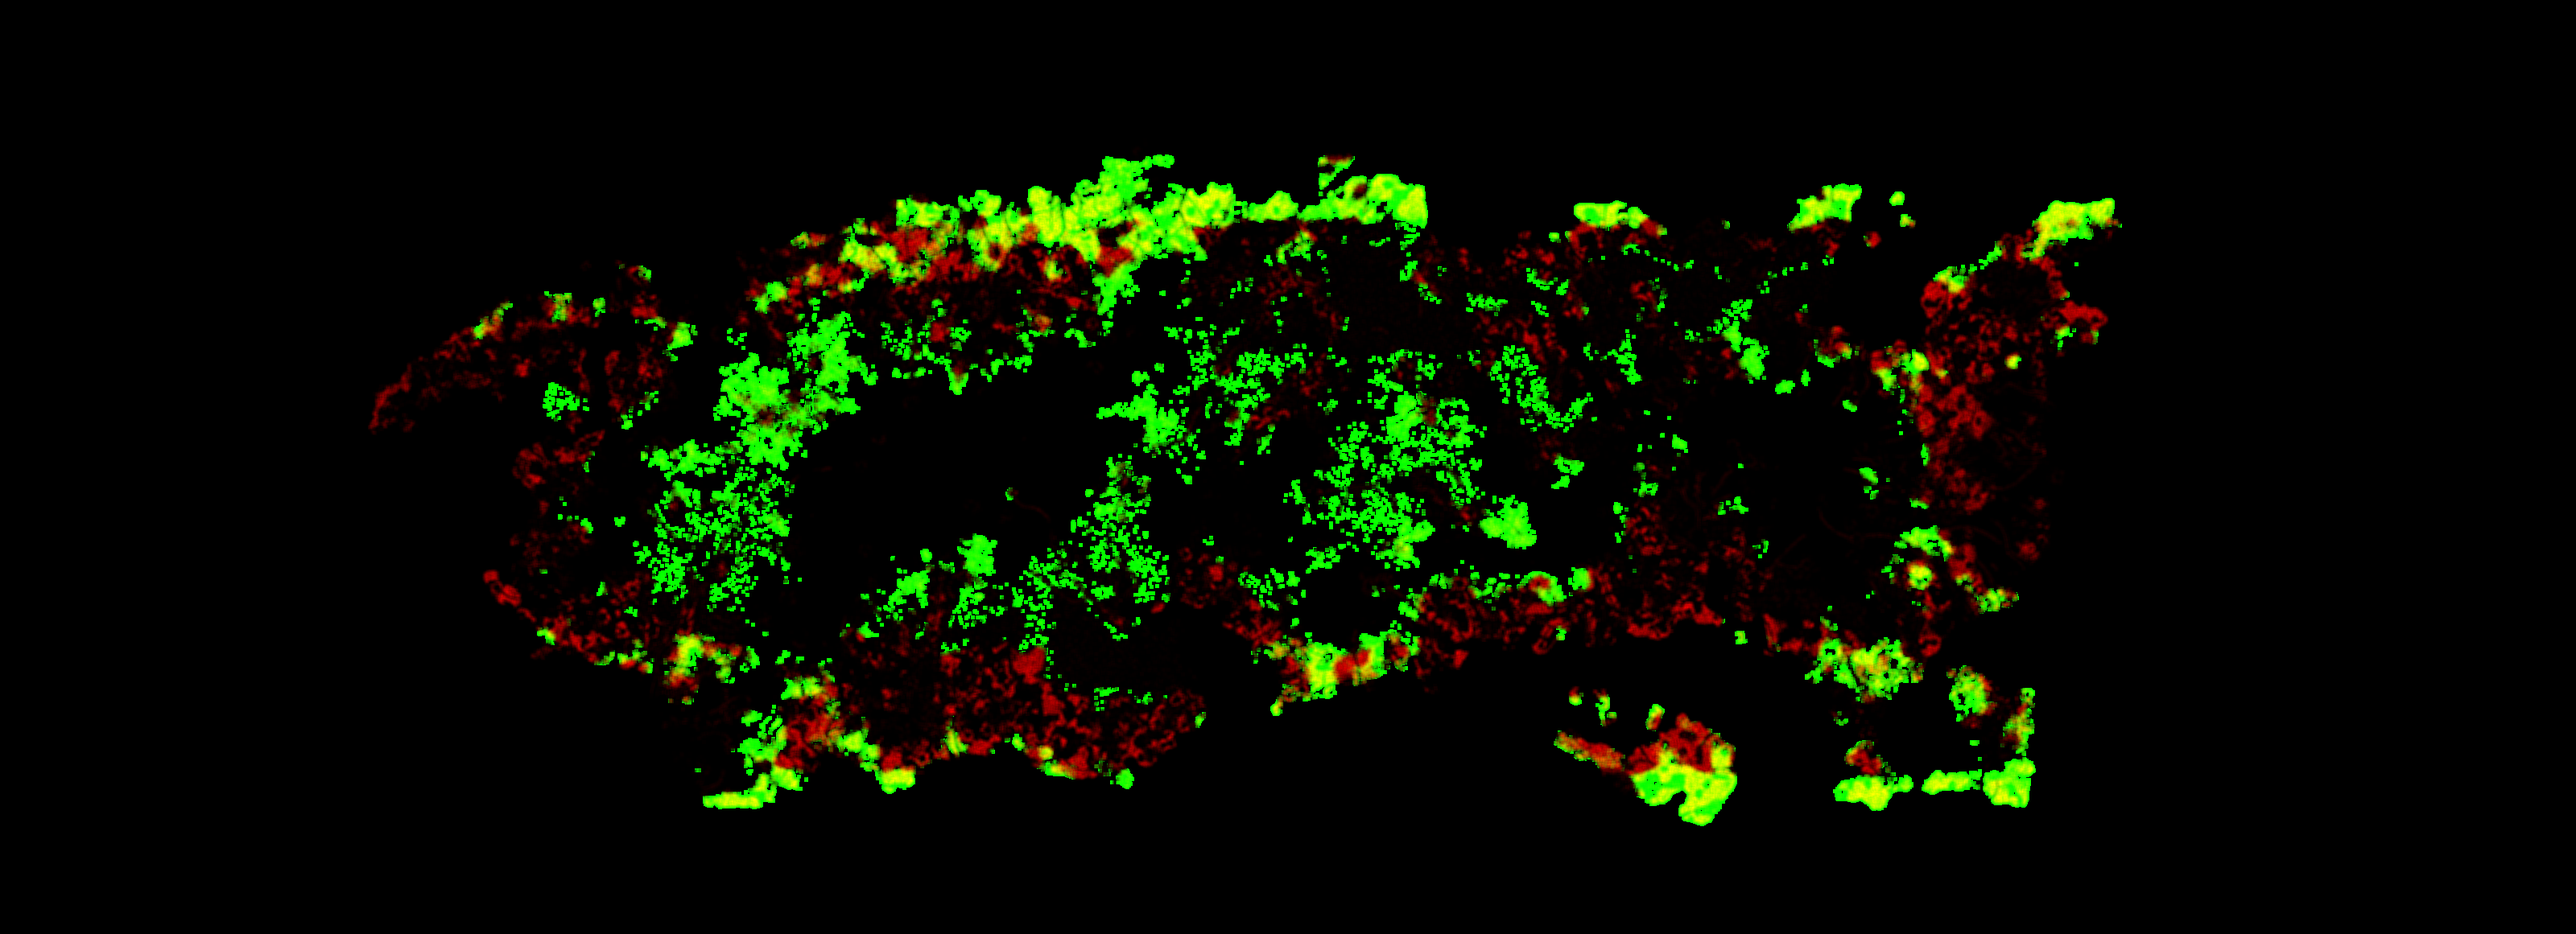
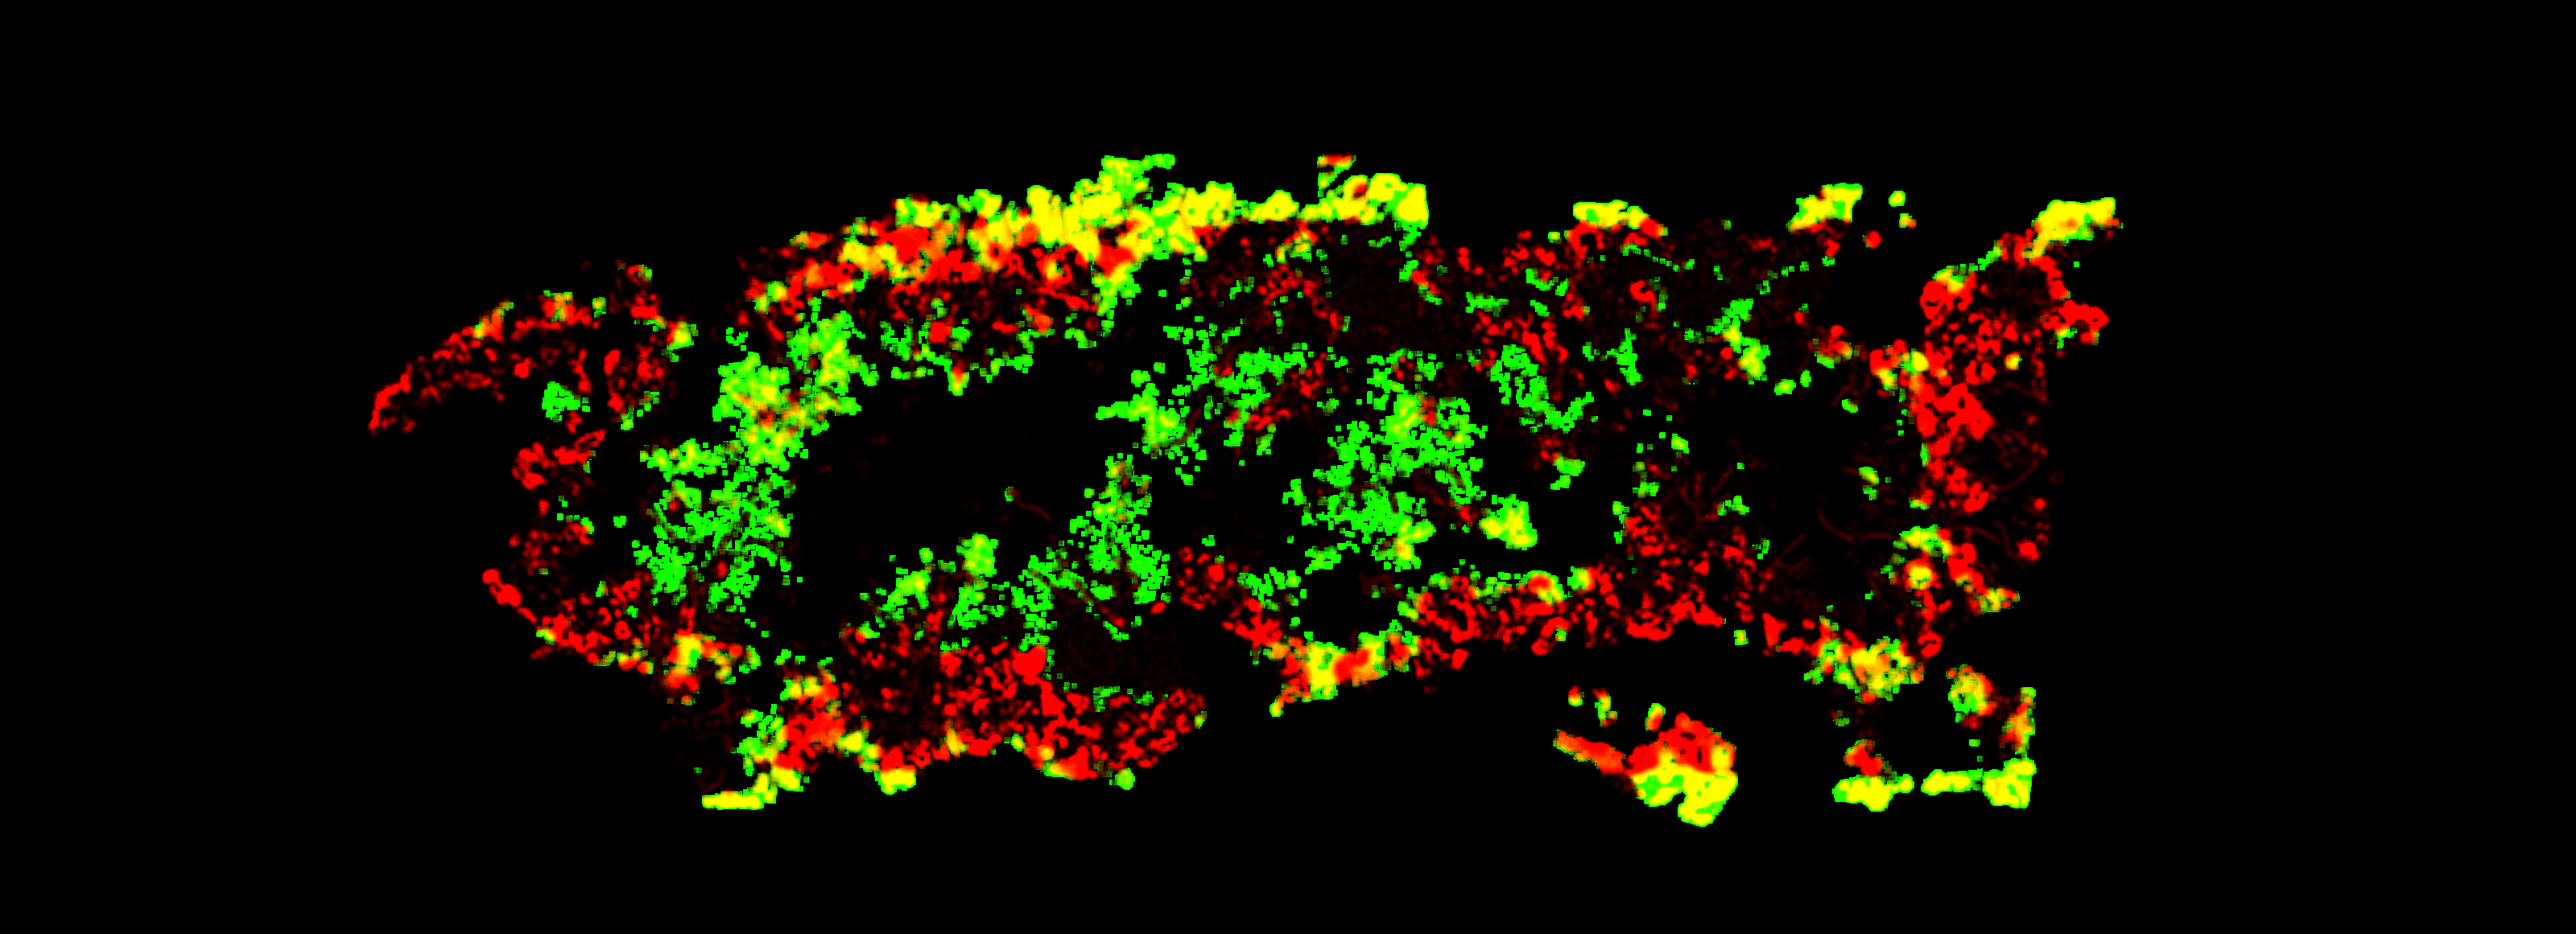
fix(map3d): the woods thin with distance instead of vanishing; a fuller far canopy
Critic 2026-10-11: with no tree past 9 km the woods at 16 km read as a flat
tint barely darker than the grass (taste 2026-10-02: the far zoom stays the
real 3D world). Past map3d_tree_card_far_m the same clumps are drawn thinned
evenly to map3d_tree_card_thin out to map3d_tree_card_thin_far_m; the whole
wood hides only past map3d_lod_trees_m (30 km). woods.png: crown_r_m 10 (a
card's real reach), canopy_gain, a softer blur. GEOMETRY_MD5 updated for the
new Map3DGeometry helpers (no baked vertex changes).

Changed region(s): [[0.125, 0.155, 0.8438, 0.8992]]

diff --git a/tools/map3d/bake_trees.py b/tools/map3d/bake_trees.py
@@ -474,6 +474,9 @@ def main(argv=None):
             a[:] = np.apply_along_axis(lambda r: np.convolve(r, k, "same"), 1, a)
             a[:] = np.apply_along_axis(lambda r: np.convolve(r, k, "same"), 0, a)
     share = np.where(cover > 1e-4, con / np.maximum(cover, 1e-4), 0)
+    # the canopy as seen from above closes over the gaps between crowns:
+    # what carries the wood once no tree is drawn (the height gate)
+    cover *= rules.get("canopy_gain", 1.0)
     img = np.zeros((wh, ww, 4), np.uint8)
     img[..., 0] = np.round(np.clip(cover, 0, 1) * 255)
     img[..., 1] = np.round(np.clip(share, 0, 1) * 255)

diff --git a/scripts/map3d/guide/ground.md b/scripts/map3d/guide/ground.md
@@ -10,7 +10,7 @@
 - **HEIGHTS**: the ground mixes toward the heat ramp by world height (stops passed as raw sRGB, blended in sRGB, turned linear in the shader); landmarks are drawn ▲ / ▽ with "N m" (the cell's metres, the engine's measure), thinned by camera distance and kept off dots, counters, legend and each other; the legend names the supply tiers.
 - **MANORS** colours each manor by its house (`ManorPalette`, pure; a 128-wide LUT keyed by the cell id from `world_cell_index.png` via `texelFetch`, sRGB bytes turned linear before the mix; muted to a tincture by `map_manor_saturation` / `_value`; its EDGE smooth — the four texels round the point weighed bilinearly per id and the line where the two heaviest meet anti-aliased over a screen px by `fwidth`, so the cell staircase reads as the curve it stands for), cell edges a `ManorEdges` ribbon (`lines/manor_edge.tres`), and carries the output badges (`ManorBadges`: chief good's icon ringed in its category colour, `MapObjects.burg_visible` LOD, a smaller producer's badge dropped on overlap). MANORS also stands each manor's PEOPLE and WEALTH as two bars (`Map3DHudManorBars`, the Hud's ManorBars node, its look the node's exports; figures from `ManorBars`, `scripts/engine/CLAUDE.md`): each against its kind's most among the rows, ink-edged; a scouted foreign manor's hatched inside a dashed intel-violet edge with a whisker over the report's range; a pair steps right of a badge and out from under the counters; a key bottom-left; hover adds the figures (`ManorBars.words_of`). The estate drawings are never drawn on the 3D map. HEIGHTS and MANORS are mutually exclusive themes, and **no trees are drawn under either** (`Map3DView.set_manor_theme` hides the Trees layer: the theme's message is the ground's colour).
 - **Woods** (an implementer's look, not yet the owner's): clumps planted by `tools/map3d/bake_trees.py` (`data/map3d_trees.csv`) on a seeded blue-noise (Poisson-disk) set no two nearer than `poisson_r_m`, kept by the woodedness chance (edge squeeze, capped by `wood_cap`, opened by `glade_*`) — woods with clearings, never a carpet. Each clump is a SPECIES, a row of `data/map3d_tree_species.csv` (the `kind` column of `trees.bin`), picked by `bake_trees.pick_species` from the ground under it: its habit (wood, lone, hedge, bank), the biome shares, its height against the tree line (`h_gain`) and a slow noise per species so a mixed wood holds patches of each; a row with `enabled` 0 waits for its atlas art and is never planted. `Map3DLayerTrees` draws MultiMeshes per 2 km square × species × variant (`map3d_tree_variants` layouts each, crowns / spread / size / tint range from the species row); every crown a camera-facing PHOTO CARD cut from `assets/3D/vegetation/crowns/crowns_atlas.png` (`tree_card.gdshader`, `tree_card.tres`; `map3d_tree_cards` 0 draws the 3D crowns). A lower `tree_density` thins EVENLY by place (`Map3DGeometry.thin_rank`), never in random holes.
-- **Height gates (LOD)**: the cards fade out by `map3d_tree_card_far_m` (over `map3d_tree_card_fade_m`) and past `map3d_lod_trees_m` of camera distance the whole wood is hidden (its `Woods` holder, so the theme's own hiding of the layer stays separate); the ground's canopy tint (`wood_far_*`, full by 10 km) has carried the wood before then. Houses hide past `map3d_lod_houses_m`, the wind stage past `map3d_lod_wind_m` (beyond the opening view: the owner wants its gusts there); each shows again `map3d_lod_margin_m` under its line (`Map3DGeometry.lod_shown`). The meadow mottle is skipped past `meadow_mottle_far_m`.
+- **Height gates (LOD)**: the cards are drawn whole out to `map3d_tree_card_far_m`, then the same clumps thinned evenly to `map3d_tree_card_thin` out to `map3d_tree_card_thin_far_m` (each switch faded over `map3d_tree_card_fade_m`), and past `map3d_lod_trees_m` of camera distance the whole wood is hidden (its `Woods` holder, so the theme's own hiding of the layer stays separate); the ground's canopy tint (`wood_far_*`; `woods.png`'s share raised by `canopy_gain`) carries the wood beyond. At the zooms the player plays the woods thin, never vanish wholesale (taste 2026-10-02). Houses hide past `map3d_lod_houses_m`, the wind stage past `map3d_lod_wind_m` (beyond the opening view: the owner wants its gusts there); each shows again `map3d_lod_margin_m` under its line (`Map3DGeometry.lod_shown`). The meadow mottle is skipped past `meadow_mottle_far_m`.
 - **Sky occlusion** (`Map3DGroundRelief`, spliced after the wind stage): `bake/relief_ao.png` (`tools/map3d/bake_relief_ao.py`) darkens valleys and terrace feet by `ground_look.tres` `relief_ao` / `relief_ao_gamma` — the light a high sun cannot give the relief.
 - **Wind** (`Map3DLayerWind`, its `deg` the one wind the clouds drift and the rain slants down; it advances only while the clock runs): thin crests across the wind over sown fields and open grass (`Map3DGroundWind`), turning the grass's pale side up — lighter and warm, never grey; crowns lean down the wind (`tree_sway.gdshader`).
 - **March dust** (`Map3DLayerDust`, World/Dust, presentation only): a walking piece raises a short string of soft puffs (`march_dust.tres`) settling over `life_days` of game time, only while the clock runs; sizes are shares of a piece's height.
